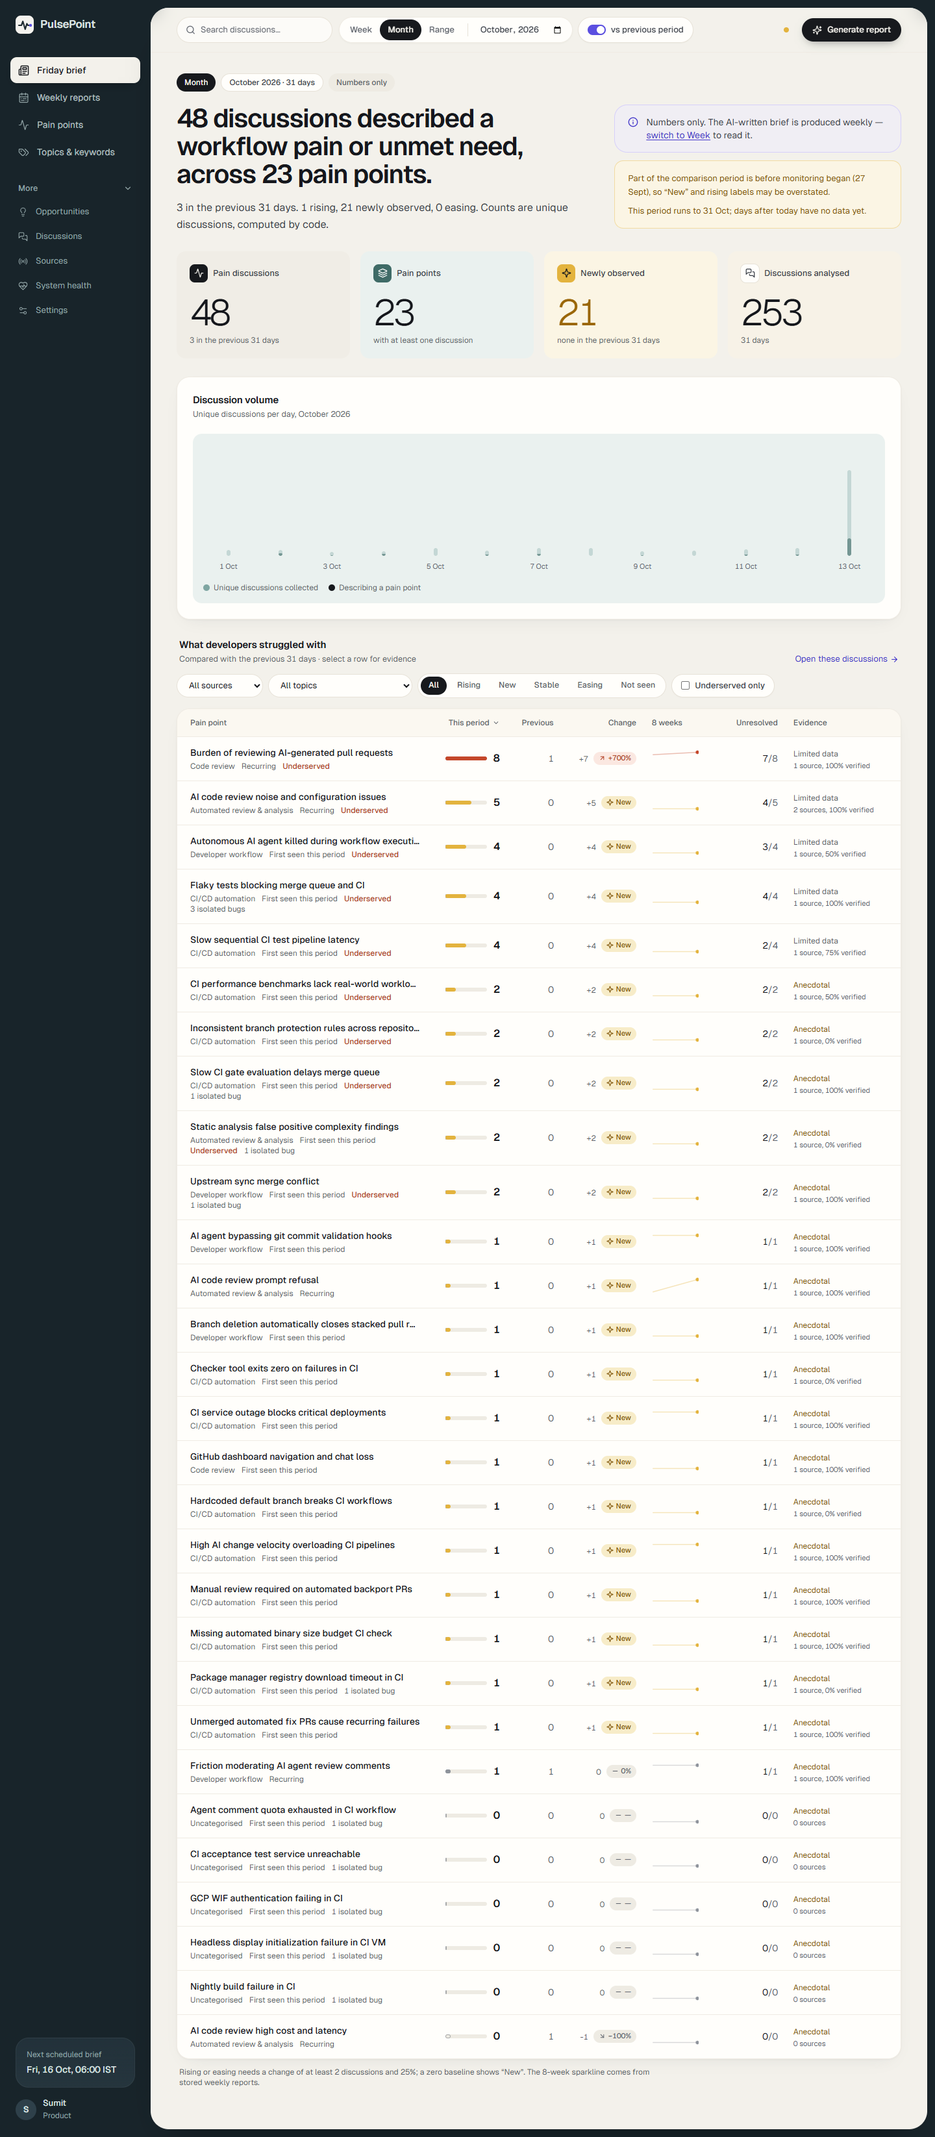
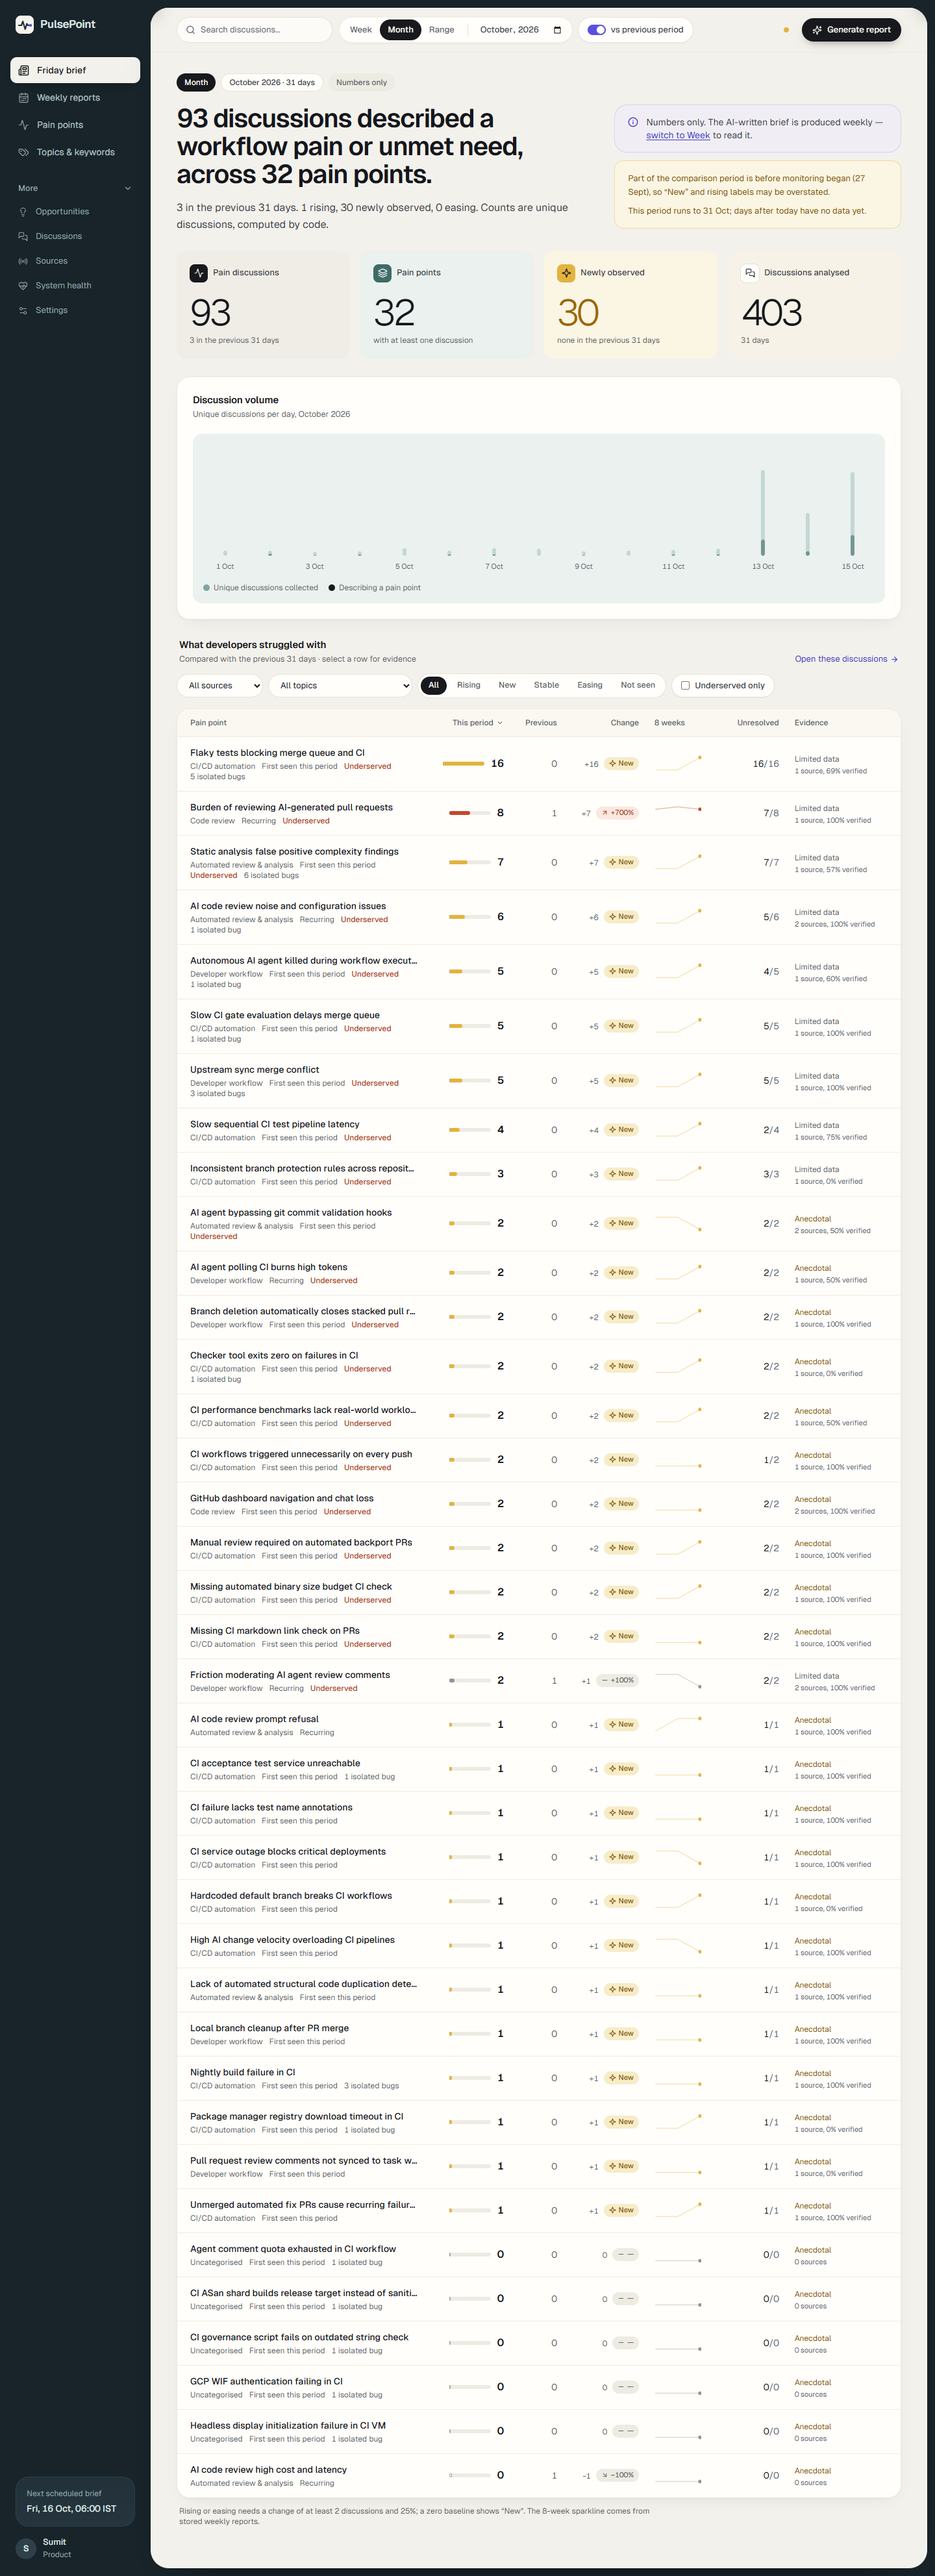
Docs: screenshots and verification for premium brief v2

diff --git a/docs/LIVE_VERIFICATION.md b/docs/LIVE_VERIFICATION.md
@@ -130,3 +130,7 @@ Visual redesign only (no data, API, database or logic changes); built on the `re
 | Interactions: evidence drawer + Escape, "More" menu, Week ↔ Month switch, vote name prompt | ✅ all work, 0 errors |
 | Tests · typecheck · lint · build | ✅ 86 passed · clean · clean · clean |
 | `/api/cron/daily` without the secret | ✅ 401 |
+
+## Premium brief v2 (15 Oct 2026, merged to `main`)
+
+Numbered sections, "This week in brief" strip (`src/lib/highlights.ts`), thick-bar ranking, topic and platform rings, "How we counted". Verified live after deploy: brief, month view, Pain points and Settings at 1440 and 390 px with no horizontal scroll and 0 console errors; axe 0 violations on the brief (1440 + 390); evidence drawer opens from the lead panel and from the new bar rows, Escape closes, "More" toggles, Week ↔ Month works, vote name prompt appears; `/api/cron/daily` 401 without the secret; 93 tests pass.
